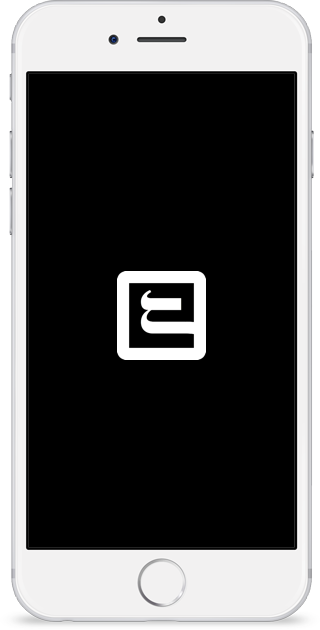
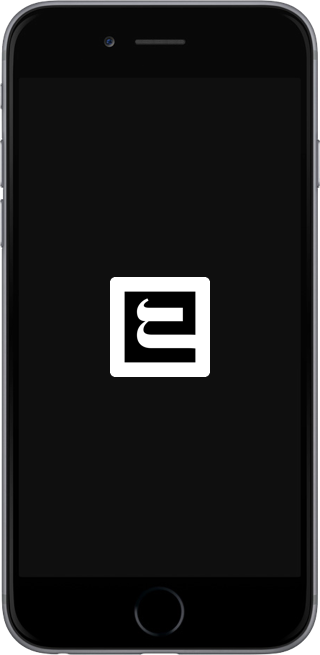
Updated screen shots and link to App Store

diff --git a/index.html b/index.html
@@ -13,6 +13,7 @@
 <meta property="og:description" content="We take care of business travel so you can take care of business">
 <meta property="og:image" content="http://www.eta.ai/img/ogImage.png">
 <meta property="fb:app_id" content="471866216330140">
+<meta name="apple-itunes-app" content="app-id=1101863917, affiliate-data=web, app-argument=http://eta.ai/app">
 <meta name="twitter:card" content="summary">
 <meta name="twitter:site" content="@etadotai">
 <link rel="shortcut icon" href="img/favicon.ico" type="image/x-icon">
@@ -71,7 +72,7 @@ fbq('track', "PageView");</script>
         <li><a href="#tweets">Tweets</a></li>
         <li><a href="#contact">Contact</a></li>
         -->
-        <li><a href="#sub" class="btn-default">Request Invite</a></li>
+        <li><a href="#sub" class="btn-default">Download</a></li>
       </ul>
     </div>
   </div>
@@ -109,12 +110,12 @@ fbq('track', "PageView");</script>
         
         <!--welcome-message-->
         <header class="welcome-message">
-          <h1><span>eta</span><br/> Your Executive Travel App</h1>
-          <h2>Limited Early Access</h2>
+          <h1><span>eta</span></h1>
+          <h2>Your Executive Travel App</h2>
         </header>
         <div class="action-btn">
           <a href="#features" class="btn btn-default">Learn More</a>
-          <a href="#sub" class="btn btn-default">Request Invite</a>
+          <a href="#sub" class="btn btn-default">Download</a>
         </div>
         <!--welcome-message end--> 
         
@@ -137,7 +138,7 @@ fbq('track', "PageView");</script>
     
     <!--feature 1-->
     <div class="row">
-      <div class="col-md-6 text-center"> <img src="img/feature-1.jpg" alt="feature" class="wow fadeInLeft" data-no-retina data-wow-offset="250"> </div>
+      <div class="col-md-6 text-center"> <img src="img/feature-1.png" alt="feature" class="wow fadeInLeft" data-no-retina data-wow-offset="250"> </div>
       <div class="col-md-6">
         <article>
           <h4>Reduce Hassle</h4>
@@ -149,7 +150,7 @@ fbq('track', "PageView");</script>
     
     <!--feature 2-->
     <div class="row">
-      <div class="col-md-6 col-md-push-6 text-center"> <img src="img/feature-2.jpg" alt="feature" class="wow fadeInRight" data-no-retina data-wow-offset="250"> </div>
+      <div class="col-md-6 col-md-push-6 text-center phone"> <img src="img/feature-2.png" alt="feature" class="wow fadeInRight" data-no-retina data-wow-offset="250"> </div>
       <div class="col-md-6 col-md-pull-6">
         <article>
           <h4>Travel in Comfort, Your Way</h4>
@@ -161,7 +162,7 @@ fbq('track', "PageView");</script>
     
     <!--feature 3-->
     <div class="row">
-      <div class="col-md-6 text-center"> <img src="img/feature-3.jpg" alt="feature" class="wow fadeInLeft" data-no-retina data-wow-offset="250"> </div>
+      <div class="col-md-6 text-center"> <img src="img/feature-3.png" alt="feature" class="wow fadeInLeft" data-no-retina data-wow-offset="250"> </div>
       <div class="col-md-6">
         <article>
           <h4>Manage Your Journey</h4>
@@ -181,21 +182,25 @@ fbq('track', "PageView");</script>
 <section class="sub-form section-spacing text-center" id="sub">
   <div class="container">
     <header class="text-center">
-      <h2>Request Invite</h2>
-      <h3>Get early access by entering your email address below</h3>
+      <h2>Download</h2>
     </header>
-    
+    <div class="row">
+      <h3>Download now on iOS for US travel</h3>
+      <a href="http://itunes.apple.com/us/app/eta-business-travel-us-only/id1101863917?ls=1&mt=8"><img src="img/Download_on_the_App_Store_Badge_US-UK_135x40.svg"/></a>
+    </div>
+    <br/>
+    <br/>
     <div class="row">
       <div class="col-md-10 center-block"> 
-        
+      <h3>Get notified when ETA launches on Android</h3>
         <!-- Begin MailChimp Signup Form -->
         <div id="mc_embed_signup">
-        <form action="//eta.us11.list-manage.com/subscribe/post?u=a0f33744cf259b6510062bb3f&amp;id=4b8df9c1d5" method="post" id="mc-embedded-subscribe-form" name="mc-embedded-subscribe-form" class="validate form-inline" target="_blank" novalidate>
+        <form action="//eta.us11.list-manage.com/subscribe/post?u=a0f33744cf259b6510062bb3f&amp;id=e39b2afcab" method="post" id="mc-embedded-subscribe-form" name="mc-embedded-subscribe-form" class="validate form-inline" target="_blank" novalidate>
             <div id="mc_embed_signup_scroll">
           
         <div class="mc-field-group">
           <input type="email" value="" name="EMAIL" class="required email form-control" id="mce-EMAIL" placeholder="Email Address">
-          <input type="submit" value="Request Invite" name="subscribe" id="mc-embedded-subscribe" class="btn btn-default button">
+          <input type="submit" value="Get Notified" name="subscribe" id="mc-embedded-subscribe" class="btn btn-default button">
           <p>&nbsp;</p> <!-- spacer for validation messages -->
           <!-- validation messages will be inserted here -->
         </div>
